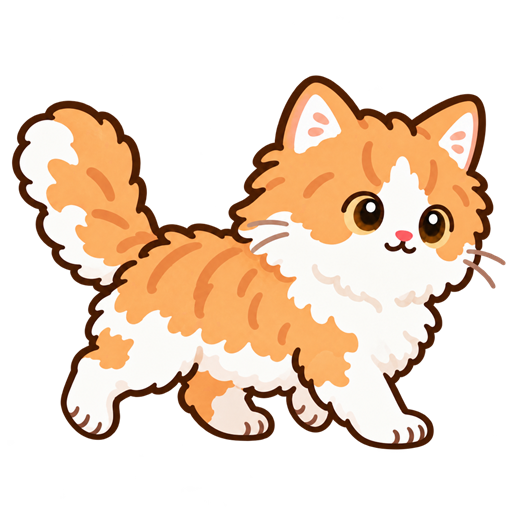
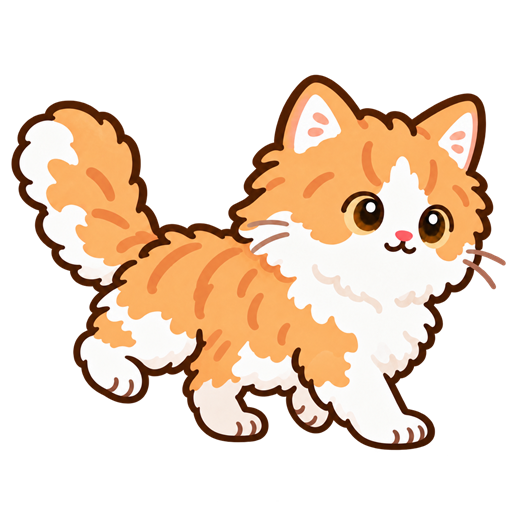
Fix alternating hind legs in Puff walk cycle

diff --git a/assets/puff-motion/poses.js b/assets/puff-motion/poses.js
@@ -1,7 +1,7 @@
 // Registration is measured in the original 1254px canvas; PNGs are 512px.
 export const POSES = [
-  {id:'01-walk-contact',nose:[987.34,574.76],bottom:1100},
-  {id:'02-walk-pass',nose:[984.62,575.99],bottom:1100},
+  {id:'01-walk-contact',nose:[985.47,576.08],bottom:1102},
+  {id:'02-walk-pass',nose:[974.31,574.41],bottom:1103},
   {id:'03-crouch',nose:[1034.56,721.56],bottom:1058},
   {id:'04-push-off',nose:[989.74,391.65],bottom:1174},
   {id:'05-jump-rise',nose:[1020.88,456.04],bottom:1150},
@@ -9,12 +9,12 @@ export const POSES = [
   {id:'07-reach-down',nose:[989.14,697.26],bottom:1114},
   {id:'08-land-compress',nose:[997.44,762.03],bottom:1132},
   {id:'09-recover',nose:[985.25,578.17],bottom:1100},
-  {id:'walk-02-down',nose:[986.39,574.71],bottom:1100},
-  {id:'walk-03-pass',nose:[977.92,578.53],bottom:1120},
-  {id:'walk-04-lift',nose:[988.36,572.49],bottom:1106},
-  {id:'walk-05-opposite',nose:[983.21,575.93],bottom:1099},
-  {id:'walk-06-opposite-down',nose:[984.82,575.51],bottom:1097},
-  {id:'walk-07-opposite-pass',nose:[988.08,575.23],bottom:1103}
+  {id:'walk-02-down',nose:[985.77,573.53],bottom:1101},
+  {id:'walk-03-pass',nose:[981.79,575.64],bottom:1121},
+  {id:'walk-04-lift',nose:[983.15,576.24],bottom:1109},
+  {id:'walk-05-opposite',nose:[982.89,576.68],bottom:1101},
+  {id:'walk-06-opposite-down',nose:[977.26,577.53],bottom:1091},
+  {id:'walk-07-opposite-pass',nose:[981.65,576.04],bottom:1104}
 ];
 export const WALK = [
   '01-walk-contact','walk-02-down','walk-03-pass','walk-04-lift',

diff --git a/assets/puff-motion/page2.js b/assets/puff-motion/page2.js
@@ -1,5 +1,5 @@
-import { POSES } from './poses.js';
-import { MOTION, PHASES, sampleMotion } from './motion-core.js';
+import { POSES } from './poses.js?v=20261009-hind-v2';
+import { MOTION, PHASES, sampleMotion } from './motion-core.js?v=20261009-hind-v2';
 
 const root=document.getElementById('puff-room');
 const find=s=>root.querySelector(s);
@@ -12,7 +12,7 @@ const assets=new Map();
 const svgNS='http://www.w3.org/2000/svg';
 for(const pose of POSES){
   const node=document.createElementNS(svgNS,'image');
-  const url=new URL(`./${pose.id}.png`,import.meta.url).href;
+  const url=new URL(`./${pose.id}.png?v=20261009-hind-v2`,import.meta.url).href;
   node.setAttribute('href',url);node.setAttribute('width',MOTION.size);node.setAttribute('height',MOTION.size);
   node.setAttribute('x',-pose.nose[0]*scale);node.setAttribute('y',-pose.nose[1]*scale);
   node.style.visibility='hidden';actor.appendChild(node);assets.set(pose.id,{node,url});

diff --git a/page2.html b/page2.html
@@ -5,8 +5,8 @@
   <meta name="viewport" content="width=device-width,initial-scale=1,viewport-fit=cover">
   <meta name="theme-color" content="#f6ebdd">
   <title>泡芙的书桌 · Project Iris</title>
-  <link rel="stylesheet" href="assets/puff-motion/page2.css?v=20261009-walk8">
-  <script type="module" src="assets/puff-motion/page2.js?v=20261009-walk8"></script>
+  <link rel="stylesheet" href="assets/puff-motion/page2.css?v=20261009-hind-v2">
+  <script type="module" src="assets/puff-motion/page2.js?v=20261009-hind-v2"></script>
 </head>
 <body>
   <main class="room" id="puff-room" aria-label="泡芙的书桌">

diff --git a/assets/puff-motion/motion-core.js b/assets/puff-motion/motion-core.js
@@ -1,4 +1,4 @@
-import { POSES, WALK } from './poses.js';
+import { POSES, WALK } from './poses.js?v=20261009-hind-v2';
 
 export const MOTION = Object.freeze({
   duration:3700,walkEnd:1920,crouchEnd:2180,land:3160,recover:3340,

diff --git a/assets/puff-motion/README.md b/assets/puff-motion/README.md
@@ -1,7 +1,9 @@
 # Puff desk animation
 
 15 transparent PNG poses: an eight-pose walk loop followed by seven jump/landing poses.
-Six additional walk poses were generated using the built-in image generator, using the original walking Puff as the identity and composition anchor.
+All eight walking poses were regenerated using the built-in image generator to give the two hind legs alternating contact and recovery phases. Opposite contact poses swap the near/far rear feet between behind the rump and under the belly; intermediate poses lift and bend the recovering rear foot. The original walking Puff remains the identity and composition anchor. Jump/landing artwork and first-page behavior are unchanged.
+
+The `20261009-hind-v2` revision is applied to images and module imports so returning visitors receive the corrected frames and matching registration together.
 
 The walk sequence is defined in `poses.js`. Art registration uses nose coordinates and measured foot baselines from the original 1254px canvases. Published PNGs are 512px square and keep their alpha channels.
 
